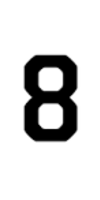
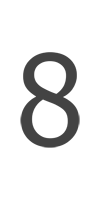
bingo

Changed region(s): [[0.18, 0.24, 0.81, 0.75]]

diff --git a/public/bingo.html b/public/bingo.html
@@ -230,103 +230,234 @@
             </div>
             <div class="row" id="bingo-panel" v-if="isDisplay">
                 <div class="col-sm-6">
-                    <div class="box box-solid box-success">
+                    <div class="box box-solid box-primary">
                         <div class="box-header with-border">
                             <h3 class="box-title"><i class="fa fa-th"></i> {{user.name}}のカード</h3>
                         </div>
                         <div class="box-body card-bg">
                             <div class="card-square">
-                                <img src="./img/1.png" class="square-left"/>
-                                <img src="./img/5.png" class="square-right"/>
-                                <img src="img/favicon.ico" class="square-hole"/>
+                                <img src="./img/square.png" class="square-bg"/>
+                                <img src="img/hole.png" class="square-hole"/>
+                                <img src="./img/1w.png" class="square-left"/>
+                                <img src="./img/5w.png" class="square-right"/>
                             </div>
                             <td class="card-td"><div class="card-square">
+                                <img src="./img/square.png" class="square-bg"/>
                                 <img src="./img/0.png" class="square-left"/>
                                 <img src="./img/7.png" class="square-right"/>
                             </div>
                             <td class="card-td"><div class="card-square">
+                                <img src="./img/square.png" class="square-bg"/>
                                 <img src="./img/3.png" class="square-left"/>
                                 <img src="./img/9.png" class="square-right"/>
                             </div>
                             <td class="card-td"><div class="card-square">
+                                <img src="./img/square.png" class="square-bg"/>
                                 <img src="./img/4.png" class="square-left"/>
                                 <img src="./img/6.png" class="square-right"/>
                             </div>
                             <td class="card-td"><div class="card-square">
+                                <img src="./img/square.png" class="square-bg"/>
                                 <img src="./img/2.png" class="square-left"/>
                                 <img src="./img/8.png" class="square-right"/>
                             </div>
                             <td class="card-td"><div class="card-square">
+                                <img src="./img/square.png" class="square-bg"/>
                                 <img src="./img/1.png" class="square-left"/>
                                 <img src="./img/5.png" class="square-right"/>
                             </div>
                             <td class="card-td"><div class="card-square">
+                                <img src="./img/square.png" class="square-bg"/>
                                 <img src="./img/1.png" class="square-left"/><img src="./img/5.png" class="square-right"/>
                             </div>
                             <td class="card-td"><div class="card-square">
+                                <img src="./img/square.png" class="square-bg"/>
                                 <img src="./img/1.png" class="square-left"/><img src="./img/5.png" class="square-right"/>
                             </div>
                             <td class="card-td"><div class="card-square">
+                                <img src="./img/square.png" class="square-bg"/>
                                 <img src="./img/1.png" class="square-left"/><img src="./img/5.png" class="square-right"/>
                             </div>
                             <td class="card-td"><div class="card-square">
+                                <img src="./img/square.png" class="square-bg"/>
                                 <img src="./img/1.png" class="square-left"/><img src="./img/5.png" class="square-right"/>
                             </div>
                             <td class="card-td"><div class="card-square">
+                                <img src="./img/square.png" class="square-bg"/>
                                 <img src="./img/1.png" class="square-left"/><img src="./img/5.png" class="square-right"/>
                             </div>
                             <td class="card-td"><div class="card-square">
+                                <img src="./img/square.png" class="square-bg"/>
                                 <img src="./img/1.png" class="square-left"/><img src="./img/5.png" class="square-right"/>
                             </div>
                             <td class="card-td"><div class="card-square">
+                                <img src="./img/square.png" class="square-bg"/>
+                                <img src="img/hole.png" class="square-hole"/>
+                            </div>
+                            <td class="card-td"><div class="card-square">
+                                <img src="./img/square.png" class="square-bg"/>
                                 <img src="./img/1.png" class="square-left"/><img src="./img/5.png" class="square-right"/>
                             </div>
                             <td class="card-td"><div class="card-square">
+                                <img src="./img/square.png" class="square-bg"/>
                                 <img src="./img/1.png" class="square-left"/><img src="./img/5.png" class="square-right"/>
                             </div>
                             <td class="card-td"><div class="card-square">
+                                <img src="./img/square.png" class="square-bg"/>
                                 <img src="./img/1.png" class="square-left"/><img src="./img/5.png" class="square-right"/>
                             </div>
                             <td class="card-td"><div class="card-square">
+                                <img src="./img/square.png" class="square-bg"/>
                                 <img src="./img/1.png" class="square-left"/><img src="./img/5.png" class="square-right"/>
                             </div>
                             <td class="card-td"><div class="card-square">
+                                <img src="./img/square.png" class="square-bg"/>
                                 <img src="./img/1.png" class="square-left"/><img src="./img/5.png" class="square-right"/>
                             </div>
                             <td class="card-td"><div class="card-square">
+                                <img src="./img/square.png" class="square-bg"/>
                                 <img src="./img/1.png" class="square-left"/><img src="./img/5.png" class="square-right"/>
                             </div>
                             <td class="card-td"><div class="card-square">
+                                <img src="./img/square.png" class="square-bg"/>
                                 <img src="./img/1.png" class="square-left"/><img src="./img/5.png" class="square-right"/>
                             </div>
                             <td class="card-td"><div class="card-square">
+                                <img src="./img/square.png" class="square-bg"/>
                                 <img src="./img/1.png" class="square-left"/><img src="./img/5.png" class="square-right"/>
                             </div>
                             <td class="card-td"><div class="card-square">
+                                <img src="./img/square.png" class="square-bg"/>
                                 <img src="./img/1.png" class="square-left"/><img src="./img/5.png" class="square-right"/>
                             </div>
                             <td class="card-td"><div class="card-square">
+                                <img src="./img/square.png" class="square-bg"/>
                                 <img src="./img/1.png" class="square-left"/><img src="./img/5.png" class="square-right"/>
                             </div>
                             <td class="card-td"><div class="card-square">
+                                <img src="./img/square.png" class="square-bg"/>
                                 <img src="./img/1.png" class="square-left"/><img src="./img/5.png" class="square-right"/>
                             </div>
                             <td class="card-td"><div class="card-square">
-                                <img src="./img/1.png" class="square-left"/><img src="./img/5.png" class="square-right"/>
-                            </div>
-                            <td class="card-td"><div class="card-square">
+                                <img src="./img/square.png" class="square-bg"/>
                                 <img src="./img/1.png" class="square-left"/><img src="./img/5.png" class="square-right"/>
                             </div>
                         </div>
                     </div>
                 </div>
                 <div class="col-sm-6">
-                    <div class="box box-solid box-primary">
+                    <div class="box box-solid box-primary" style="width: 200px;">
                         <div class="box-header with-border">
-                            <h3 class="box-title"><i class="fa fa-gears"></i> みんなのカード</h3>
+                            <h3 class="box-title"><i class="fa fa-th"></i> {{user.name}}のカード</h3>
                         </div>
-                        <div class="box-body">
-                            dsf
+                        <div class="box-body card-bg">
+                            <div class="card-square-mini">
+                                <img src="./img/square.png" class="square-bg"/>
+                                <img src="img/hole.png" class="square-hole"/>
+                                <img src="./img/1w.png" class="square-left"/>
+                                <img src="./img/5w.png" class="square-right"/>
+                            </div>
+                            <td class="card-td"><div class="card-square-mini">
+                                <img src="./img/square.png" class="square-bg"/>
+                                <img src="./img/0.png" class="square-left"/>
+                                <img src="./img/7.png" class="square-right"/>
+                            </div>
+                            <td class="card-td"><div class="card-square-mini">
+                                <img src="./img/square.png" class="square-bg"/>
+                                <img src="./img/3.png" class="square-left"/>
+                                <img src="./img/9.png" class="square-right"/>
+                            </div>
+                            <td class="card-td"><div class="card-square-mini">
+                                <img src="./img/square.png" class="square-bg"/>
+                                <img src="./img/4.png" class="square-left"/>
+                                <img src="./img/6.png" class="square-right"/>
+                            </div>
+                            <td class="card-td"><div class="card-square-mini">
+                                <img src="./img/square.png" class="square-bg"/>
+                                <img src="./img/2.png" class="square-left"/>
+                                <img src="./img/8.png" class="square-right"/>
+                            </div>
+                            <td class="card-td"><div class="card-square-mini">
+                                <img src="./img/square.png" class="square-bg"/>
+                                <img src="./img/1.png" class="square-left"/>
+                                <img src="./img/5.png" class="square-right"/>
+                            </div>
+                            <td class="card-td"><div class="card-square-mini">
+                                <img src="./img/square.png" class="square-bg"/>
+                                <img src="./img/1.png" class="square-left"/><img src="./img/5.png" class="square-right"/>
+                            </div>
+                            <td class="card-td"><div class="card-square-mini">
+                                <img src="./img/square.png" class="square-bg"/>
+                                <img src="./img/1.png" class="square-left"/><img src="./img/5.png" class="square-right"/>
+                            </div>
+                            <td class="card-td"><div class="card-square-mini">
+                                <img src="./img/square.png" class="square-bg"/>
+                                <img src="./img/1.png" class="square-left"/><img src="./img/5.png" class="square-right"/>
+                            </div>
+                            <td class="card-td"><div class="card-square-mini">
+                                <img src="./img/square.png" class="square-bg"/>
+                                <img src="./img/1.png" class="square-left"/><img src="./img/5.png" class="square-right"/>
+                            </div>
+                            <td class="card-td"><div class="card-square-mini">
+                                <img src="./img/square.png" class="square-bg"/>
+                                <img src="./img/1.png" class="square-left"/><img src="./img/5.png" class="square-right"/>
+                            </div>
+                            <td class="card-td"><div class="card-square-mini">
+                                <img src="./img/square.png" class="square-bg"/>
+                                <img src="./img/1.png" class="square-left"/><img src="./img/5.png" class="square-right"/>
+                            </div>
+                            <td class="card-td"><div class="card-square-mini">
+                                <img src="./img/square.png" class="square-bg"/>
+                                <img src="img/hole.png" class="square-hole"/>
+                            </div>
+                            <td class="card-td"><div class="card-square-mini">
+                                <img src="./img/square.png" class="square-bg"/>
+                                <img src="./img/1.png" class="square-left"/><img src="./img/5.png" class="square-right"/>
+                            </div>
+                            <td class="card-td"><div class="card-square-mini">
+                                <img src="./img/square.png" class="square-bg"/>
+                                <img src="./img/1.png" class="square-left"/><img src="./img/5.png" class="square-right"/>
+                            </div>
+                            <td class="card-td"><div class="card-square-mini">
+                                <img src="./img/square.png" class="square-bg"/>
+                                <img src="./img/1.png" class="square-left"/><img src="./img/5.png" class="square-right"/>
+                            </div>
+                            <td class="card-td"><div class="card-square-mini">
+                                <img src="./img/square.png" class="square-bg"/>
+                                <img src="./img/1.png" class="square-left"/><img src="./img/5.png" class="square-right"/>
+                            </div>
+                            <td class="card-td"><div class="card-square-mini">
+                                <img src="./img/square.png" class="square-bg"/>
+                                <img src="./img/1.png" class="square-left"/><img src="./img/5.png" class="square-right"/>
+                            </div>
+                            <td class="card-td"><div class="card-square-mini">
+                                <img src="./img/square.png" class="square-bg"/>
+                                <img src="./img/1.png" class="square-left"/><img src="./img/5.png" class="square-right"/>
+                            </div>
+                            <td class="card-td"><div class="card-square-mini">
+                                <img src="./img/square.png" class="square-bg"/>
+                                <img src="./img/1.png" class="square-left"/><img src="./img/5.png" class="square-right"/>
+                            </div>
+                            <td class="card-td"><div class="card-square-mini">
+                                <img src="./img/square.png" class="square-bg"/>
+                                <img src="./img/1.png" class="square-left"/><img src="./img/5.png" class="square-right"/>
+                            </div>
+                            <td class="card-td"><div class="card-square-mini">
+                                <img src="./img/square.png" class="square-bg"/>
+                                <img src="./img/1.png" class="square-left"/><img src="./img/5.png" class="square-right"/>
+                            </div>
+                            <td class="card-td"><div class="card-square-mini">
+                                <img src="./img/square.png" class="square-bg"/>
+                                <img src="./img/1.png" class="square-left"/><img src="./img/5.png" class="square-right"/>
+                            </div>
+                            <td class="card-td"><div class="card-square-mini">
+                                <img src="./img/square.png" class="square-bg"/>
+                                <img src="./img/1.png" class="square-left"/><img src="./img/5.png" class="square-right"/>
+                            </div>
+                            <td class="card-td"><div class="card-square-mini">
+                                <img src="./img/square.png" class="square-bg"/>
+                                <img src="./img/1.png" class="square-left"/><img src="./img/5.png" class="square-right"/>
+                            </div>
                         </div>
                     </div>
                 </div>

diff --git a/public/css/bingo.css b/public/css/bingo.css
@@ -2,42 +2,46 @@
     cursor: pointer;
 }
 .card-bg {
-    background-color: #00a65a;
+    background-color: #3c8dbc;
     padding: 5px;
     width: 100%;
     overflow: hidden;
 }
-/*.card-tb {
-    width: 100%;
-}
-.card-tr {
-    width: 100%;
-}
-.card-td {
-    width: 20%;
-    padding: 5px;
-}*/
 .card-square {
     float: left;
     width: 20%;
-    height: auto;
     padding: 5px;
+    position: relative;
+}
+.card-square-mini {
+    float: left;
+    width: 20%;
+    padding: 2px;
+    position: relative;
+}
+.square-bg {
+    width: 100%;
+    border-radius: 3px;
 }
 .square-left {
-    float: left;
+    position: absolute;
     width: 50%;
-    border-top-left-radius: 3px;
-    border-bottom-left-radius: 3px;
+    left: 0px;
+    left: 10%;
+    top: 0px;
 }
 .square-right {
-    float: right;
+    position: absolute;
     width: 50%;
-    border-top-right-radius: 3px;
-    border-bottom-right-radius: 3px;
+    right: 0px;
+    right: 10%;
+    top: 0px;
 }
 .square-hole {
-    width: 100%;
+    width: 90%;
     position: absolute;
     left: 0px;
     top: 0px;
+    left: 5%;
+    top: 5%;
 }
